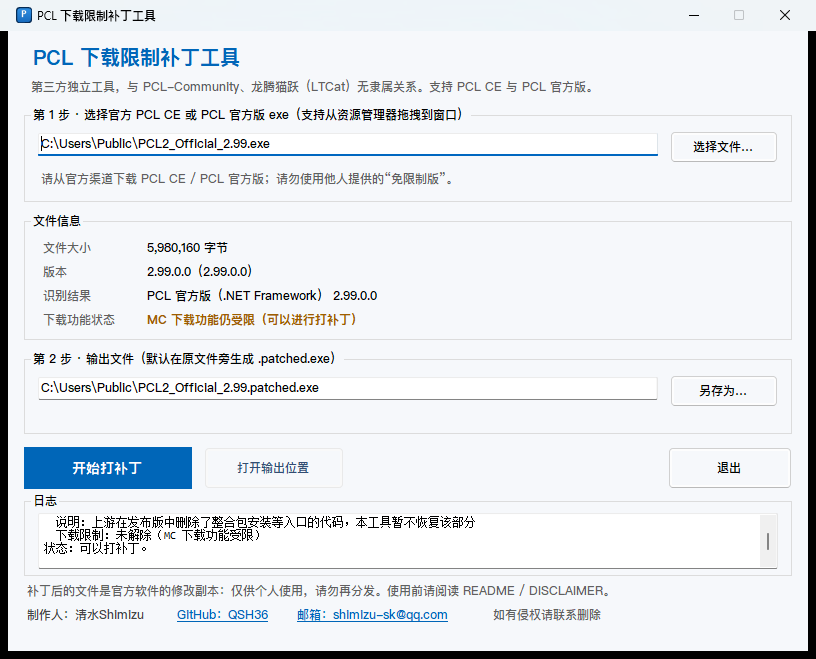
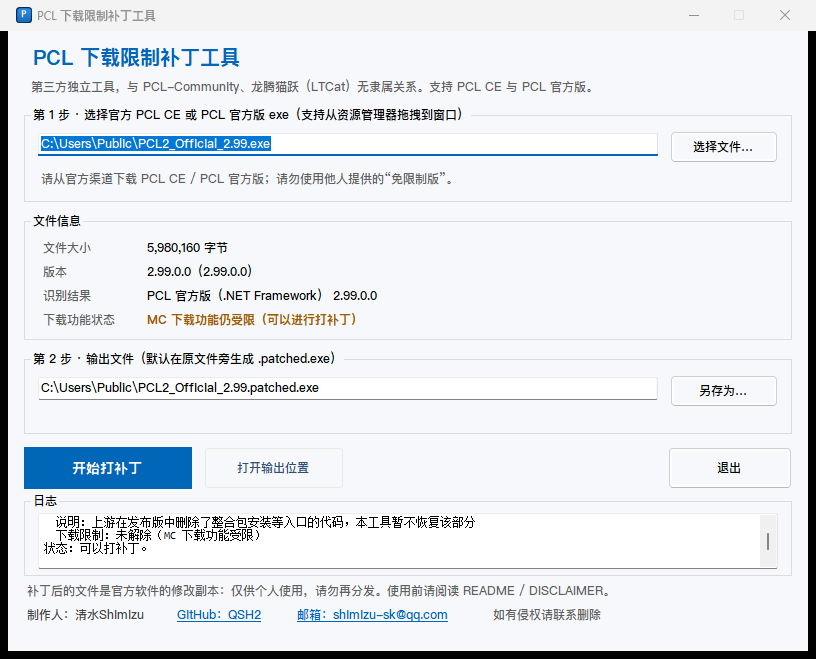
Update author credit to new account QSH2 (v1.2.4)

diff --git a/src/PclCeRegionPatch.Gui/MainForm.cs b/src/PclCeRegionPatch.Gui/MainForm.cs
@@ -10,7 +10,7 @@ namespace PclCeRegionPatch.Gui;
 internal sealed class MainForm : Form
 {
     private const string AppTitle = "PCL 下载限制补丁工具";
-    private const string AppVersion = "1.2.3";
+    private const string AppVersion = "1.2.4";
 
     private static readonly Color Accent = Color.FromArgb(0, 102, 184);
     private static readonly Color OkColor = Color.FromArgb(16, 124, 16);
@@ -207,12 +207,12 @@ internal sealed class MainForm : Form
 
         var lnkGitHub = new LinkLabel
         {
-            Text = "GitHub：QSH36",
+            Text = "GitHub：QSH2",
             Location = new Point(166, 576),
             Size = new Size(118, 18),
             LinkColor = Accent
         };
-        lnkGitHub.LinkClicked += (_, _) => OpenUrl("https://github.com/QSH36");
+        lnkGitHub.LinkClicked += (_, _) => OpenUrl("https://github.com/QSH2");
         Controls.Add(lnkGitHub);
 
         var lnkMail = new LinkLabel

diff --git a/src/PclCeRegionPatch/Program.cs b/src/PclCeRegionPatch/Program.cs
@@ -1,4 +1,4 @@
-using System;
+using System;
 using System.IO;
 
 namespace PclCeRegionPatch;
@@ -6,7 +6,7 @@ namespace PclCeRegionPatch;
 internal static class Program
 {
     private const string ToolName = "pcl-ce-regionpatch";
-    private const string ToolVersion = "1.2.3";
+    private const string ToolVersion = "1.2.4";
 
     private static int Main(string[] args)
     {

diff --git a/README.md b/README.md
@@ -3,7 +3,7 @@
 > **独立的第三方工具**，与 PCL-Community、龙腾猫跃（LTCat）无隶属、无授权、无背书关系。
 > 请勿向官方仓库反馈由本工具产生的问题。
 >
-> 制作人：**清水Shimizu** · GitHub [@QSH36](https://github.com/QSH36) · 邮箱 shimizu-sk@qq.com · 如有侵权请联系删除
+> 制作人：**清水Shimizu** · GitHub [@QSH2](https://github.com/QSH2) · 邮箱 shimizu-sk@qq.com · 如有侵权请联系删除
 
 **本仓库不包含任何 PCL 的源代码、二进制或密钥，也不提供任何成品下载。** 它只提供本地工具
 （命令行版与 Windows 图形界面版）：在**你自己的电脑上**，对**你自己合法获取**的官方 exe
@@ -171,12 +171,13 @@ docs/                        # 截图与图标预览
 ## 制作人
 
 - 制作人：**清水Shimizu**
-- GitHub：[@QSH36](https://github.com/QSH36)
+- GitHub：[@QSH2](https://github.com/QSH2)
 - 联系邮箱：shimizu-sk@qq.com
 - 如有侵权请联系删除（同上邮箱）。
 
 ## 更新日志
 
+- **v1.2.4**：作者署名与 GitHub 链接更新为新账号 [@QSH2](https://github.com/QSH2)（旧账号已无法使用）。
 - **v1.2.3**：图标改为 PCL 风格（深蓝外框 + 亮蓝内层 + 白色 "P"）；修复「重新打补丁」的一个
   问题：对已经打过补丁的 PCL 官方版再次打补丁时，Minecraft 卡片可见性检查会误报失败，现已
   幂等处理（重复打补丁不再报错，CE 重复打补丁输出保持逐字节一致）。

diff --git a/README.en.md b/README.en.md
@@ -4,7 +4,7 @@
 > PCL-Community or LTCat (龙腾猫跃). Please do not report issues caused by this tool to the
 > upstream repositories.
 >
-> Author: **清水Shimizu** · GitHub [@QSH36](https://github.com/QSH36) · e-mail shimizu-sk@qq.com · contact for removal if anything infringes.
+> Author: **清水Shimizu** · GitHub [@QSH2](https://github.com/QSH2) · e-mail shimizu-sk@qq.com · contact for removal if anything infringes.
 
 **This repository contains no PCL source code, binaries, or credentials, and offers no
 pre-patched downloads.** It provides local tools (CLI + Windows GUI) that apply controlled
@@ -165,12 +165,14 @@ laws and the upstream licenses.
 ## Author
 
 - Author: **清水Shimizu**
-- GitHub: [@QSH36](https://github.com/QSH36)
+- GitHub: [@QSH2](https://github.com/QSH2)
 - E-mail: shimizu-sk@qq.com
 - Contact the author for removal if anything infringes.
 
 ## Changelog
 
+- **v1.2.4**: author credits and GitHub link updated to the new account [@QSH2](https://github.com/QSH2)
+  (the previous account is no longer available).
 - **v1.2.3**: PCL-style icon (navy frame + blue inner square + white "P"); fixed the
   "re-patch" issue where patching an already-patched PCL official build failed the
   Minecraft-card visibility check (now idempotent; CE double-patching stays byte-identical).
